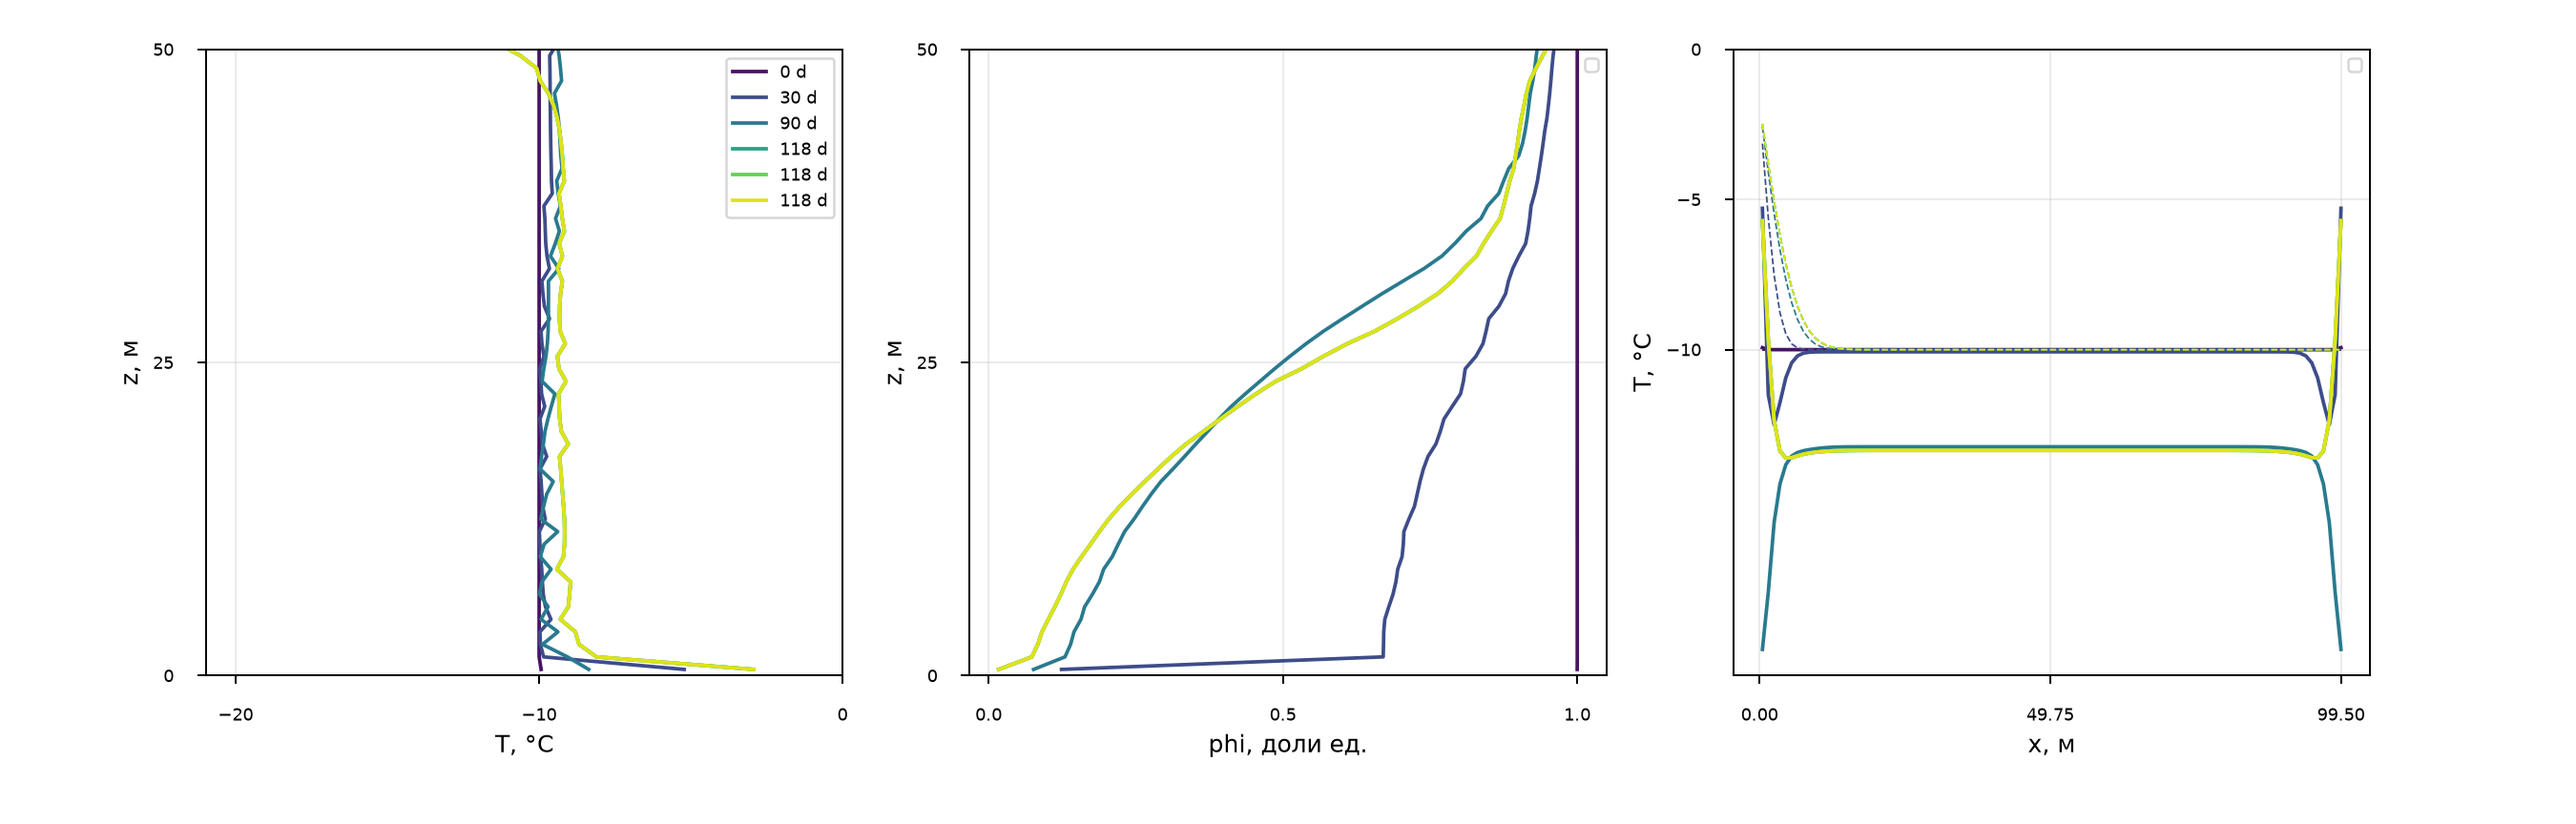
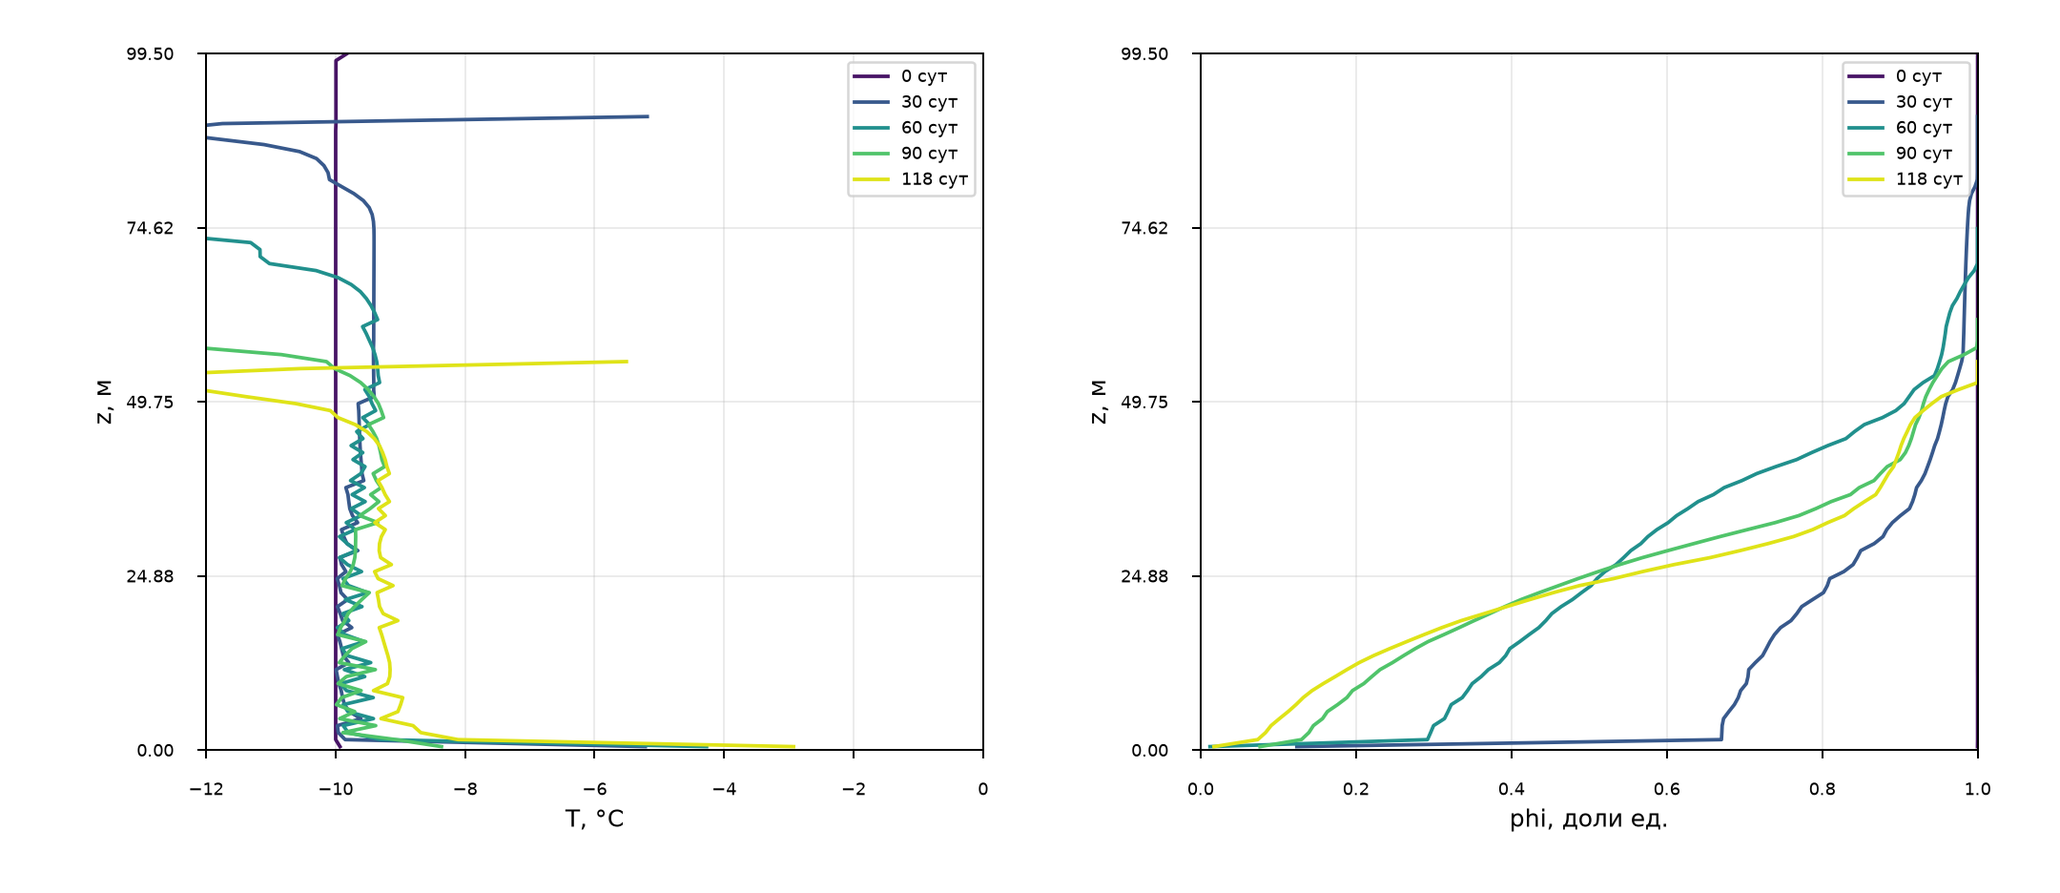
12.20: clarify profiles and time-series panels

diff --git a/python/analysis/stage12.20_figures.py b/python/analysis/stage12.20_figures.py
@@ -104,28 +104,28 @@ def snapshot_matrix(tag,root,out,target=32,L=100.0):
     print(out)
 
 def profiles(tag,root,out):
-    fs=snaps(root); days=(0,30,90,180,270,350); cols=plt.cm.viridis(np.linspace(.05,.95,len(days)))
-    fig,ax=plt.subplots(1,3,figsize=(15,4.8))
+    fs=snaps(root); last=day_of(fs[-1]); days=[]
+    for target in np.linspace(0,last,5):
+        d=day_of(nearest(fs,target))
+        if d not in days: days.append(d)
+    cols=plt.cm.viridis(np.linspace(.05,.95,len(days)))
+    fig,ax=plt.subplots(1,2,figsize=(12,5.2))
+    zmax=1.0
     for c,d in zip(cols,days):
         p,T,S,x,y,z,m,t=load(nearest(fs,d)); sol=p>0.01
+        zmax=float(z[-1])
         tz=np.array([np.nanmean(T[k][sol[k]]) if sol[k].any() else np.nan for k in range(p.shape[0])])
         pz=np.where(p.sum((1,2))>0,p.mean((1,2)),np.nan)
-        psum=p.sum((1,2)); k=int(np.argmax(psum))
-        cols=p[k].sum(0)
-        tx=(T[k]*p[k]).sum(0)/np.maximum(cols,1e-6); tx[cols<=0.01]=np.nan
-        ax[0].plot(tz,z,color=c,label=f"{int(round(t/86400))} d"); ax[1].plot(pz,z,color=c); ax[2].plot(x,tx,color=c)
-        kappa=K_ICE/(RHO_ICE*C_ICE); tt=max(t,1.0)
-        ax[2].plot(x, -1.8 + (-10.0+1.8)*erf(x/(2*np.sqrt(kappa*tt))), color=c, ls="--", lw=.7)
+        lab=f"{int(round(t/86400))} сут"
+        ax[0].plot(tz,z,color=c,label=lab)
+        ax[1].plot(pz,z,color=c,label=lab)
     ax[0].set(xlabel="T, °C",ylabel="z, м"); ax[1].set(xlabel="phi, доли ед.",ylabel="z, м")
-    ax[0].set_ylim(0,50); ax[1].set_ylim(0,50)
-    ax[0].set_xticks([-20,-10,0]); ax[0].set_yticks([0,25,50])
-    ax[1].set_xticks([0,0.5,1]); ax[1].set_yticks([0,25,50])
-    ax[2].set(xlabel="x, м",ylabel="T, °C")
-    xmax=float(x[-1]); ax[2].set_xticks([0,xmax/2,xmax]); ax[2].set_yticks([-10,-5,0])
     for a in ax:
+        a.set_ylim(0,zmax); a.set_yticks(np.linspace(0,zmax,5))
         a.grid(alpha=.25); a.legend(fontsize=7)
-        a.tick_params(axis="x", pad=10, labelsize=7); a.tick_params(axis="y", pad=10, labelsize=7)
-    fig.subplots_adjust(left=.08,right=.92,bottom=.18,top=.94)
+        a.tick_params(axis="x",pad=10,labelsize=7); a.tick_params(axis="y",pad=10,labelsize=7)
+    ax[0].set_xlim(-12,0); ax[1].set_xlim(0,1)
+    fig.subplots_adjust(left=.10,right=.96,bottom=.16,top=.94,wspace=.28)
     fig.savefig(out,dpi=180); check_png(out); plt.close(fig); print(out)
 
 def series(tag,root,out):
@@ -143,19 +143,22 @@ def series(tag,root,out):
     ax[0,0].plot(df.day,100*(m0-df.mass)/m0,"k-"); ax[0,0].set(ylabel="потеря массы, % m₀")
     ax[0,1].plot(df.day,df.draft,label="осадка"); ax[0,1].plot(df.day,df.freeboard,label="надводный борт")
     ax[0,1].set(ylabel="м"); ax[0,1].legend(fontsize=7)
-    ax[1,0].plot(df.day,100*df["melt"]/m0,label="basal+lateral+surface")
-    ax[1,0].plot(df.day,100*df["flush"]/m0,label="flush")
-    ax[1,0].plot(df.day,100*df.calved/m0,label="calved")
-    ax[1,0].plot(df.day,100*(m0-df.mass)/m0,"k--",label="total")
-    ax[1,0].plot(df.day,100*df.resid/m0,"r-",label="residual")
+    ax[1,0].plot(df.day,100*df["melt"]/m0,label="таяние: дно+борт+верх")
+    ax[1,0].plot(df.day,100*df["flush"]/m0,label="сброс/вытеснение")
+    ax[1,0].plot(df.day,100*df.calved/m0,label="откол")
+    ax[1,0].plot(df.day,100*(m0-df.mass)/m0,"k--",label="суммарная потеря")
+    ax[1,0].plot(df.day,100*df.resid/m0,"r-",label="невязка")
     ax[1,0].set(ylabel="% m₀"); ax[1,0].legend(fontsize=6)
     calf=Path(root)/"run.nc_calved.csv"
     if calf.exists():
         cd=pd.read_csv(calf)
         for _,r in cd.iterrows():
             for a in (ax[0,0],ax[1,0]): a.axvline(r.time_s/86400,color="k",ls=":",lw=.7)
-    ax[1,1].plot(df.day,df.T_w,color="C3",label="T"); ax[1,1].set(ylabel="T, °C")
-    ax2=ax[1,1].twinx(); ax2.plot(df.day,1000*df.S_w,color="C0",label="S"); ax2.set_ylabel("S [g/kg]")
+    l1,=ax[1,1].plot(df.day,df.T_w,color="C3",label="T воды")
+    ax[1,1].set_ylabel("T, °C"); ax[1,1].yaxis.label.set_color("C3"); ax[1,1].tick_params(axis="y",colors="C3")
+    ax2=ax[1,1].twinx(); l2,=ax2.plot(df.day,1000*df.S_w,color="C0",label="S воды")
+    ax2.set_ylabel("S, ‰",color="C0"); ax2.tick_params(axis="y",colors="C0")
+    ax[1,1].legend([l1,l2],["T воды","S воды"],loc="best",fontsize=7)
     for a in ax.ravel():
         a.grid(alpha=.2); a.set_xlabel("сутки")
         g=df.grounded.values.astype(int); st=np.where((g==1)&np.r_[True,g[:-1]==0])[0]; en=np.where((g==1)&np.r_[g[1:]==0,True])[0]
@@ -165,7 +168,7 @@ def series(tag,root,out):
         aa.set_xlim(0, float(df.day.iloc[-1]))
         aa.set_xticks([0,100,200,300])
     ax[1,1].tick_params(axis="x", pad=5)
-    fig.subplots_adjust(left=.12,right=.92,bottom=.18,top=.80,wspace=.45,hspace=.50)
+    fig.subplots_adjust(left=.12,right=.90,bottom=.18,top=.94,wspace=.45,hspace=.50)
     fig.savefig(out,dpi=180); check_png(out); plt.close(fig); print(out)
 
 def main():

diff --git a/docs/wiki/stages/stage12/stage12.20_phi_conn_and_start_selection.md b/docs/wiki/stages/stage12/stage12.20_phi_conn_and_start_selection.md
@@ -79,9 +79,13 @@ coastal reference question and would mix two populations in one map.
 ## 6. Figures
 
 `figures/stage12.20/final/<run>/` contains `snapshots_3d.png`, `profiles.png`
-(with erf overlay), `time_series.png` with no W/H or track inset, `track.png`,
-and `evolution_phi.gif`/`evolution_T.gif` (400 ms frames, 1500 ms last frame,
-fixed size/colorbars). Common `map_2020_2024.png`, `mass_curves.png` and
+with `T(z)` and `phi(z)` at five actual snapshot dates, `time_series.png`,
+`track.png`, and `evolution_phi.gif`/`evolution_T.gif` (400 ms frames, 1500 ms
+last frame, fixed size/colorbars). The full-width mid-depth `T(x)` transect is
+omitted: with `kappa ~ 1.1e-6 m2/s` the one-year thermal skin is only ~6 m, so a
+100 m transect is visually empty in the interior; `T(z)`/`phi(z)` carry the
+useful profile information. `time_series.png` uses Russian labels and separate
+red/blue axes for water `T` and `S` at draft. Common `map_2020_2024.png`, `mass_curves.png` and
 `summary.csv` contain only the six coastal 100³ runs. The two 50 m controls are
 kept out of those mixed figures and are summarised separately in
 `controls_50m.png`; their per-run figures remain in `CTRL_FJL2_2020/` and
